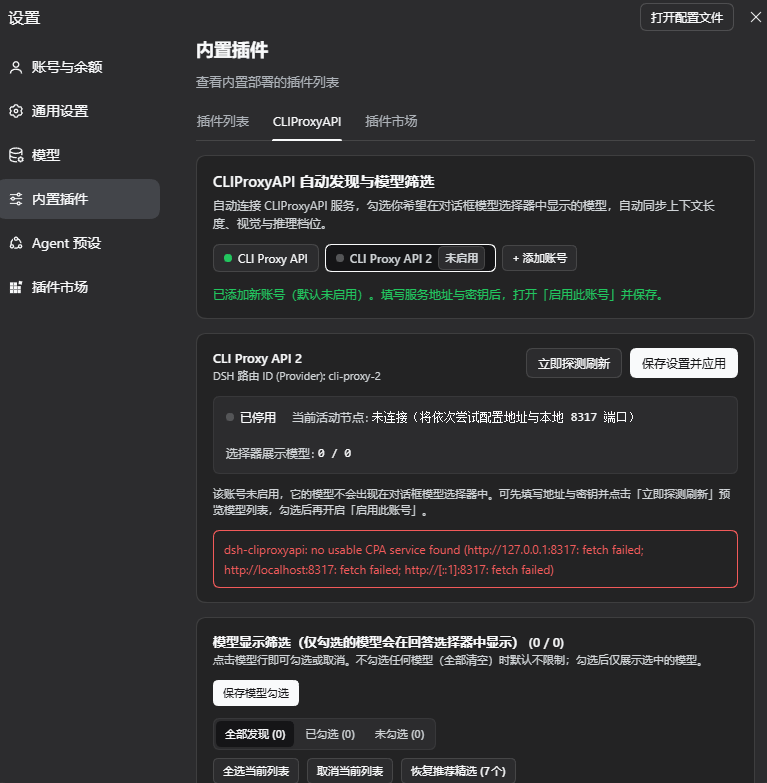
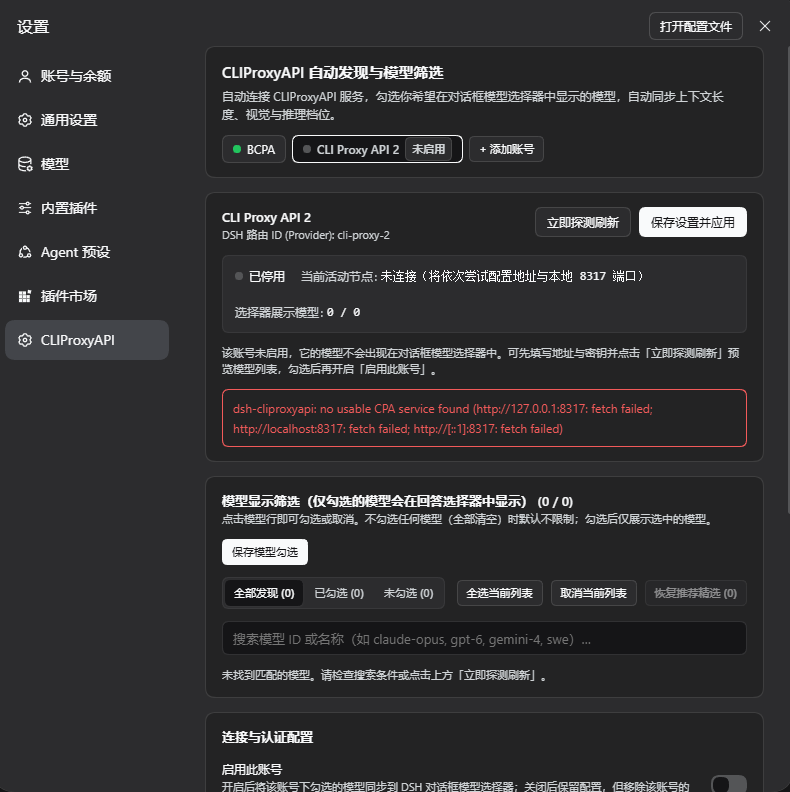
docs: live 1.6.0 screenshots of the Settings section and update tab

diff --git a/README.en.md b/README.en.md
@@ -96,11 +96,11 @@ If CPA runs on this machine on the default port `8317` without a key, there is n
 
 ## Screenshots
 
-The panel follows the DSH display language; the screenshots show the Chinese UI.
+The panel follows the DSH display language; the screenshots are actual captures of 1.6.0 in the DSH desktop app with the Chinese UI.
 
-**1. Account bar and account status.** The bar at the top lists every account: a green dot means connected, a grey dot plus the **Off** badge means disabled. Here a second account, *CLI Proxy API 2*, was just added with **+ Add Account**: it starts disabled, gets its own provider route `cli-proxy-2`, and — since no base URL is set yet — the probe reports that no local CPA was found.
+**1. The CLIProxyAPI page in Settings and its account bar.** Accounts and models live on the **CLIProxyAPI** page in the Settings dialog's left navigation. The bar at the top lists every account: a green dot means connected, a grey dot plus the **Off** badge means disabled. Here a second account, *CLI Proxy API 2*, was just added with **+ Add Account**: it starts disabled, gets its own provider route `cli-proxy-2`, and — since no base URL is set yet — the probe reports that no local CPA was found.
 
-![Account bar with one connected and one newly added, disabled account](https://raw.githubusercontent.com/TinyBOOOOM/dsh-cliproxyapi-pro/main/assets/screenshots/accounts.png)
+![The CLIProxyAPI page in Settings with one connected and one newly added, disabled account](https://raw.githubusercontent.com/TinyBOOOOM/dsh-cliproxyapi-pro/main/assets/screenshots/accounts.png)
 
 **2. Model picker filter.** All 168 models discovered from the CPA server, with All / Checked / Unchecked tabs, family chips (GPT, CLAUDE, GEMINI, GROK, …), search and bulk actions. Checked models are the only ones synchronized into the DSH model picker; each shows the protocol it will use (here OpenAI Responses), image input, reasoning levels and context window, and **Edit Parameters** opens its per-model overrides.
 
@@ -110,11 +110,9 @@ The panel follows the DSH display language; the screenshots show the Chinese UI.
 
 ![Connection settings of a disabled account with its own credential ref](https://raw.githubusercontent.com/TinyBOOOOM/dsh-cliproxyapi-pro/main/assets/screenshots/connection.png)
 
-**4. Plugin update card.** The real component is rendered offline with fictional update state (captured when the card still sat collapsed at the top of the account page): a single row shows the current version and update status, and expanding it reveals channels, download regions and automatic-update switches. It now lives alone on the plugin page and starts expanded there. This is not a live GUI screenshot and does not indicate an actual published version.
+**4. The plugin update page under Built-in plugins.** **Settings** → **Built-in plugins** → the **CLIProxyAPI** tab holds only plugin updates: checking and offline download, **Update Now** once the DSH plugin market is detected, the update channel, the download region, and the automatic check / download / install switches. Here the plugin is already the latest Stable version, so **Update Now** is disabled.
 
-![Collapsed plugin update row showing the current version and an available update](https://raw.githubusercontent.com/TinyBOOOOM/dsh-cliproxyapi-pro/main/assets/screenshots/updates.png)
-
-![Expanded plugin update settings: channels, download regions and automatic switches](https://raw.githubusercontent.com/TinyBOOOOM/dsh-cliproxyapi-pro/main/assets/screenshots/updates-expanded.png)
+![The CLIProxyAPI update page under Built-in plugins: version status, plugin-market update, channel, region and automatic switches](https://raw.githubusercontent.com/TinyBOOOOM/dsh-cliproxyapi-pro/main/assets/screenshots/updates.png)
 
 ## Features in detail
 

diff --git a/AGENTS.md b/AGENTS.md
@@ -112,7 +112,7 @@ Tests fake `fetch`, settings and credentials; they never touch the network or th
 - Install instructions describe only verified paths: the DSH **Plugins → Add plugin** dialog (package name, optional `@version`), the agent's `plugin_manager install_bundle` with target `dsh-cliproxyapi-pro`, `dsh plugin --profile <name> add dsh-cliproxyapi-pro` (installs from npm and adds the bundle to `dsh.profile.bundles` in one step), and Git / tarball / local-path targets. Re-verify after DSH changes its plugin manager. Offline update commands use `dsh plugin --profile 'name' add 'absolute.tgz'` only after DSH is closed.
 - `AGENTS.md` and `CHANGELOG.md` are English only. Keep work-in-progress notes under `Unreleased`; do not bump a version or existing README pins unless a release is requested.
 - Describe only behavior the code has; the community plugin list checks descriptions against the source. Distinguish automatic downloading from automatic installation, and integrity checks from authenticity verification.
-- Screenshots live in `assets/screenshots/` and are referenced by both READMEs and by `screenshots.json` (1–8 relative paths, read by plugin storefronts such as dsh-market). They are not shipped in the npm package. When the panel changes visibly, retake them, keep them free of real keys, server URLs and private data, and keep the captions in both READMEs accurate. `updates.png` (collapsed row) and `updates-expanded.png` are actual-component offline previews with example versions, not evidence of live GUI validation; retain that disclosure.
+- Screenshots live in `assets/screenshots/` and are referenced by both READMEs and by `screenshots.json` (1–8 relative paths, read by plugin storefronts such as dsh-market). They are not shipped in the npm package. When the panel changes visibly, retake them, keep them free of real keys, server URLs and private data, and keep the captions in both READMEs accurate. The current four (`accounts.png` = the Settings section, `model-filter.png`, `connection.png`, `updates.png` = the Built-in plugins update tab) are live captures of 1.6.0 in the desktop app, supplied by the maintainer. If a screenshot is ever replaced by an offline component render, label it as such in both READMEs.
 
 ## CI and release
 
